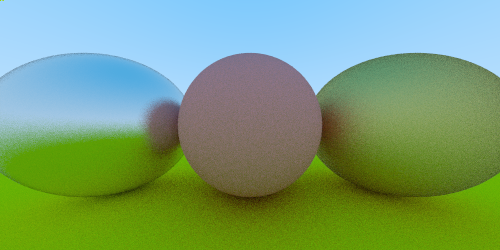
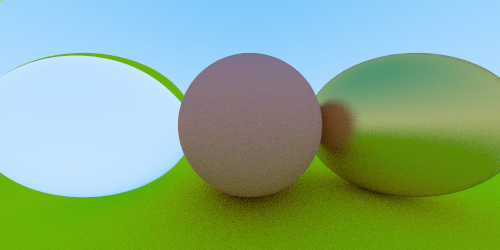
added dieletric material

Changed region(s): [[0.0, 0.196, 0.45, 0.896], [0.63, 0.196, 1.0, 0.784], [0.51, 0.784, 0.54, 0.812]]

diff --git a/include/material.hpp b/include/material.hpp
@@ -47,4 +47,45 @@ struct metal : public material
     }
 };
 
+struct dieletric : public material
+{
+    float refractionIndex;
+
+    dieletric(float ri) : refractionIndex{ri} {}
+
+    bool scatter(const ray& incoming, const hit_record& record, glm::vec3& attenuation, ray& scattered) const
+    {
+        // snells law:
+        // n * sin(theta) = n' * sin(theta')
+
+        glm::vec3 outwardNormal;
+        glm::vec3 reflected = glm::reflect(glm::normalize(incoming.direction), record.normal);
+        float index;
+        attenuation = glm::vec3(1.f);
+        glm::vec3 refracted;
+
+        if (glm::dot(incoming.direction, record.normal) > 0.f) {
+            outwardNormal = -record.normal;
+            index = refractionIndex;
+        }
+        else {
+            outwardNormal = record.normal;
+            index = 1.f / refractionIndex;
+        }
+
+        refracted = glm::refract(incoming.direction, outwardNormal, index);
+
+        if (refracted != glm::vec3(0.0f)) {
+            scattered = ray(record.point, refracted);
+        }
+        else {
+            scattered = ray(record.point, reflected);
+            return false;
+        }
+
+        return true;
+    }
+
+};
+
 }

diff --git a/src/main.cpp b/src/main.cpp
@@ -36,8 +36,8 @@ int main(int argc, char* argv[])
     world.list.push_back(new tracer::sphere(glm::vec3(0.0f, 0.0f, -1.0f), 0.5f,new tracer::lambertian(glm::vec3(0.8f, 0.3f, 0.3f))));
     world.list.push_back(new tracer::sphere(glm::vec3(0.0f, -100.5f, -1.0f), 100.0f, new tracer::lambertian(glm::vec3(0.8f, 0.8f, 0.0f))));
     world.list.push_back(new tracer::sphere(glm::vec3(0.0f, -100.5f, -1.0f), 100.0f, new tracer::lambertian(glm::vec3(0.8f, 0.8f, 0.0f))));
-    world.list.push_back(new tracer::sphere(glm::vec3(1.0f, 0.0f, -1.0f), 0.5f, new tracer::metal(glm::vec3(0.8f, 0.6f, 0.2f), 1.0f)));
-    world.list.push_back(new tracer::sphere(glm::vec3(-1.0f, 0.0f, -1.0f), 0.5f, new tracer::metal(glm::vec3(0.8f, 0.8f, 0.8f), 0.3f)));
+    world.list.push_back(new tracer::sphere(glm::vec3(1.0f, 0.0f, -1.0f), 0.5f, new tracer::metal(glm::vec3(0.8f, 0.6f, 0.2f), 0.3f)));
+    world.list.push_back(new tracer::sphere(glm::vec3(-1.0f, 0.0f, -1.0f), 0.5f, new tracer::dieletric(1.3f)));
 
     int r, g, b;
     glm::vec3 col;
